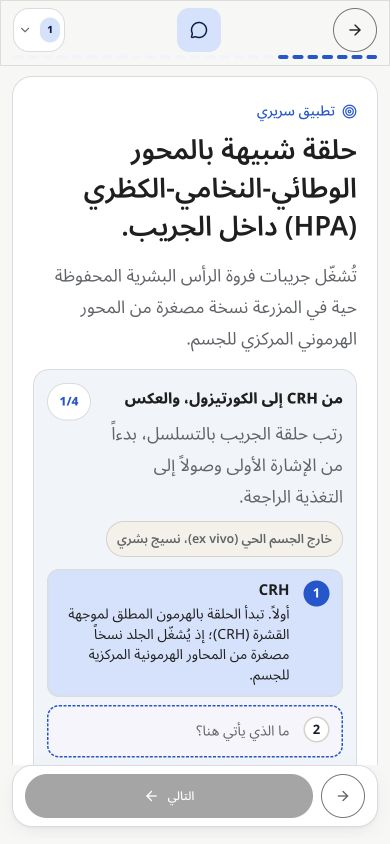
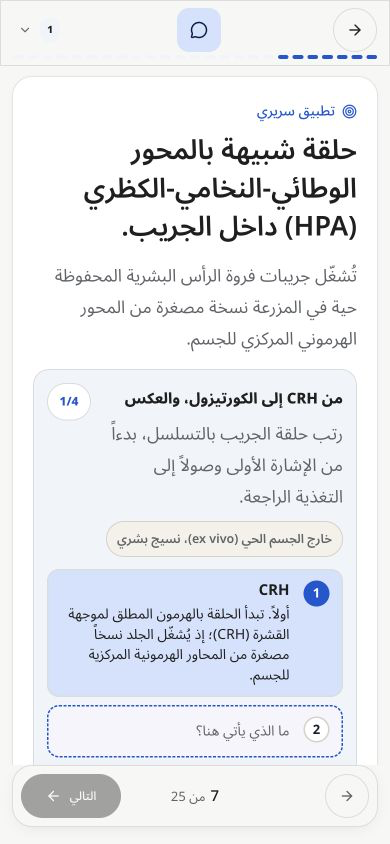
Refresh Hormonaly product UI specimens and bilingual sharing assets

diff --git a/design.md b/design.md
@@ -3,7 +3,7 @@
 Tier 2 · supplied identity · 16 October 2026. Source: Hormonaly-Academy-Brand-Book-v2.pdf, provided by Omar in this chat. Supersedes the earlier house-theme design contract; historical decisions are retained in course-production/brand-v2-20261016/design-history.md.
 
 ## 1. Identity
-Calm, precise clinical education for licensed clinicians: a neutral canvas, clear type, one blue for links and state. Visual thesis: warm off-white, near-black type, soft white panels, restrained depth. Existing content sequence stays hero → practice/course → real course previews → evidence/faculty → enrollment. Interactions retain restrained button feedback, device hover, and existing player/transcript controls with reduced-motion support.
+Calm, precise clinical education for licensed clinicians: a neutral canvas, clear type, one blue for links and state. Visual thesis: Apple-like product restraint expressed through Hormonaly's own identity—warm off-white, near-black type, white grouped surfaces and subtle translucent navigation. Existing content sequence stays hero → practice/course → real course previews → evidence/faculty → enrollment. Interaction thesis: tactile pressed feedback on actions, a sliding selection in segmented navigation, and brief sheet/lesson entrances. Motion respects reduced-motion settings; navigation becomes opaque when reduced transparency is requested.
 
 ## 2. Palette
 Canvas #F7F7F5; Surface #FFFFFF; Container #F0F4F9; Ink #1F1F1F; Blue #0B57D0; Blue Container #D3E3FD; On Blue Container #041E49; Lilac #E8E1F5; Line #DADCE0; Secondary #5F6368. Success #188038 on #E6F4EA; Error #B3261E on #F9DEDC; Caution #7A4A00 on #FEEFC3. Illustration cream #F1EDE4 and indigo #564EA7 stay within existing scientific art. Blue is a signal, primary actions are ink.
@@ -12,7 +12,7 @@ Canvas #F7F7F5; Surface #FFFFFF; Container #F0F4F9; Ink #1F1F1F; Blue #0B57D0; B
 Google Sans Flex: display 500, body 400, UI 500, selected small labels 600. Noto Sans Arabic 400/500/600; fallback IBM Plex Sans Arabic. Self-hosted OFL fonts from google/fonts, licences alongside files. No tracking or uppercase transform in Arabic. Arabic body line-height 1.8; RTL navigation and text, LTR wordmarks/media/numerals.
 
 ## 4. Shape and spacing
-Centered maximum 1200px content with 32px desktop and 20px mobile gutters. English text aligns to start, Arabic to its RTL start. Pills 999px, cards 20px, feature tiles 24px, sheets 28px, inputs 12px, rows 16px. Shared learner header/body/footer frame; lesson card and controls use one centered column. Soft card and callout shadows follow book p21.
+Centered maximum 1200px content with 32px desktop and 20px mobile gutters. English text aligns to start, Arabic to its RTL start. Pills 999px, cards 20px, feature tiles 24px, sheets 28px, inputs 12px, standalone rows 16px. Rows within a group use inset separators instead of individual rounded cards or shadows. Shared learner header/body/footer frame; lesson card and controls use one centered column. Soft card and callout shadows follow book p21; elevated depth is reserved for floating controls and sheets. Touch targets are at least 44px. Brand fonts and palette remain authoritative; Apple logos, SF fonts and copied product imagery are not introduced.
 
 ## 5. Logo
 Original vector wordmark extracted from supplied PDF p12, lettering preserved as outlines. Orbit geometry unchanged, near-black as prescribed. Favicon uses white orbit on Ink. Versioned assets under assets/brand/v2. Latin wordmark never mirrored.
@@ -25,3 +25,5 @@ No invented logos, simulated functionality, fabricated course progress or eviden
 
 ## 8. Direction and release
 Owner direction (16 October 2026): “Can u use the new brand book for hormonaly i emailed across all elements. Also inside the course all Ui is moved to the left”. This authorizes implementation of the supplied identity and alignment correction. Local specimen review and publication state are recorded in the accompanying implementation report; no new independent medical or accreditation approval is claimed.
+
+Follow-up owner direction: “make sure to Apply a modern apple product like UI across all elements”. This adds the surface, navigation, control and motion refinement described above. The local specimen remains pending publication.

diff --git a/course-production/brand-v2-20261016/IMPLEMENTATION.md b/course-production/brand-v2-20261016/IMPLEMENTATION.md
@@ -3,7 +3,7 @@
 ## Status
 Implemented locally on `fix/hormonaly-brand-v2-20261016`. Production has not been changed by this update. The existing production release remains the November 30 offer extension. This is an implementation specimen for owner review, not a new accreditation or medical approval.
 
-Runtime: `fe039e58dbf1425e2b90fa0cc00fd1f52f209a78`. Academy: this commit's inputs. Design source and extraction details: [SOURCE.md](SOURCE.md).
+Runtime: `573706e112d83526a142fa5c5f105543012327f8` (includes the follow-up product UI refinement below). Academy: this commit's inputs. Design source and extraction details: [SOURCE.md](SOURCE.md).
 
 ## Applied
 - Supplied v2 wordmark, near-black orbit/favicon, neutral canvas, white surfaces, blue link/selection colour, lilac accent, and Ink primary buttons.
@@ -36,3 +36,18 @@ Runtime: `fe039e58dbf1425e2b90fa0cc00fd1f52f209a78`. Academy: this commit's inpu
 - Home: http://127.0.0.1:5199/?home#inside
 - Course: http://127.0.0.1:5199/?capture#/course
 - Production-built sign-in: http://127.0.0.1:5200/login
+
+## Follow-up: modern Apple-like product UI
+Owner direction: “make sure to Apply a modern apple product like UI across all elements”. The supplied brand typography, palette, logos and clinical content remain authoritative.
+
+- Shared navigation uses subtle translucency with an opaque fallback and reduced-transparency support. Selected destinations have a restrained inset treatment; controls retain keyboard focus and reduced-motion support.
+- Modules are a continuous grouped list with inset separators, neutral metadata and 44px actions. Individual nested card shadows and lifting rows are removed.
+- Resource/locale segments, account sheets, grouped settings, forms, admin tables, Guide bubbles and homepage framing share the same surface hierarchy and touch sizes.
+- The lesson footer keeps its card width, restores its progress counter on mobile, and gives Next a compact pill instead of a full-width bar.
+- Restored the final-check and certificate rows hidden by the legacy mobile stylesheet. Their existing enrollment/completion gates remain intact.
+- Mobile homepage header places the language selector beside the logo and all section links plus Sign in on the row below. Both reading directions fit within 390px.
+- Six actual course captures and both 1200 × 630 sharing images are refreshed. All configured PNG files contain PNG bytes; browser screenshots saved as JPEG are identified by `.jpg`.
+
+Visual review in the Codex in-app browser: English/Arabic 390 × 844 course, lesson, practice and home; Arabic Library, account sheet, profile/settings and Guide; English desktop course/lesson at 1280 × 720. Course/hero/syllabus start at x=124 with width 1124; lesson card/footer start at x=244 with width 792. Mobile document width equals the 390px viewport. Proofs are in `product-ui/`, with the six homepage specimens under `public/assets/hormones-peptides-skin/home/brand-v2/`.
+
+Preparation validates the six image hashes. The production build, TypeScript, locale and tenant-isolation checks pass. Existing Vite configuration/chunk warnings remain. No additional automated test suites or authenticated admin walkthrough were run for this visual refinement. No deployment, email, certificate or production learner mutation occurred.
